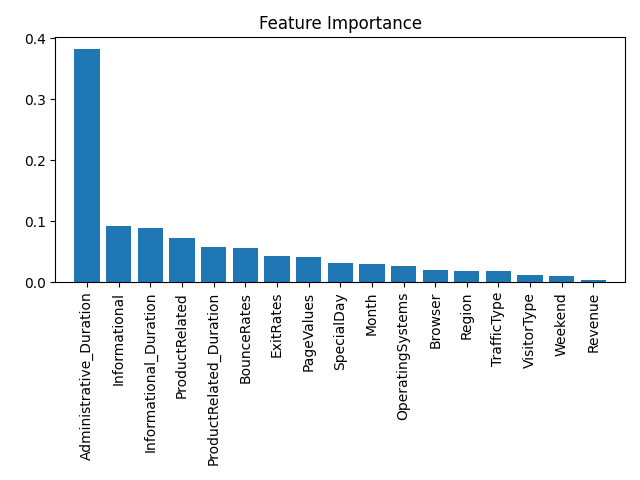
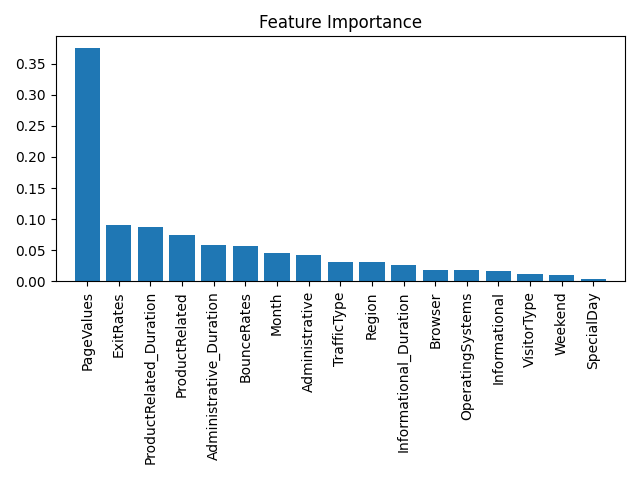
no message

diff --git a/ML_application/20230509/randomForestFeatureRank.py b/ML_application/20230509/randomForestFeatureRank.py
@@ -27,11 +27,16 @@ def randomForestFeatureRank(
     rank = model.feature_importances_
     inidices = numpy.argsort(rank)[::-1]
 
-    for f in range(train_x.shape[1]):
-        print(
-            f"%2d) %-*s %f" % (f + 1, 30, featureNames[inidices[f]], rank[inidices[f]])
-        )
+    with open(
+        "./tables_and_reports/featureRank.txt", encoding="utf-8", mode="w"
+    ) as file:
+        for f in range(train_x.shape[1]):
+            print(
+                f"%2d) %-*s %f" % (f + 1, 30, featureNames[inidices[f]], rank[inidices[f]]),
+                file=file,
+            )
 
+    featureNames = [featureNames[inidices[f]] for f in range(train_x.shape[1])]
     pyplot.title("Feature Importance")
     pyplot.bar(range(train_x.shape[1]), rank[inidices], align="center")
     pyplot.xticks(range(train_x.shape[1]), featureNames, rotation=90)
@@ -68,12 +73,13 @@ def main():
 
 if __name__ == "__main__":
     manageFolder("plots")
+    manageFolder("tables_and_reports")
 
     data = pandas.DataFrame()
     data = pandas.read_csv("./online_shoppers_intention.csv")
 
     # feature names
-    featureNames = [*data.columns[1:]]
+    featureNames = [*data.columns[:-1]]
 
     train_x, train_y, test_x, test_y = (
         numpy.ndarray([1, 2, 3]),

diff --git a/ML_application/20230509/compareAccuracy.py b/ML_application/20230509/compareAccuracy.py
@@ -43,7 +43,7 @@ def main():
     # 切訓練與測試資料
     x1 = data.iloc[:, :-1].values
     x2 = data[
-        ["Administrative_Duration", "Informational", "Informational_Duration"]
+        ["PageValues", "ExitRates", "ProductRelated_Duration"]
     ].values
     y = data.iloc[:, data.shape[1] - 1].values
     train_x1, test_x1, train_y, test_y = dataPreProcess.splitTrainTest(

diff --git a/ML_application/20230509/utils.py b/ML_application/20230509/utils.py
@@ -26,9 +26,6 @@ class Accuracy:
 def manageFolder(name: str):
     if not os.path.exists(f"./{name}"):
         os.mkdir(f"./{name}")
-    else:
-        shutil.rmtree(f"./{name}")  # 等效於 rm -rf ./name
-        os.mkdir(f"./{name}")
 
 
 def getClassName(obj) -> str:
